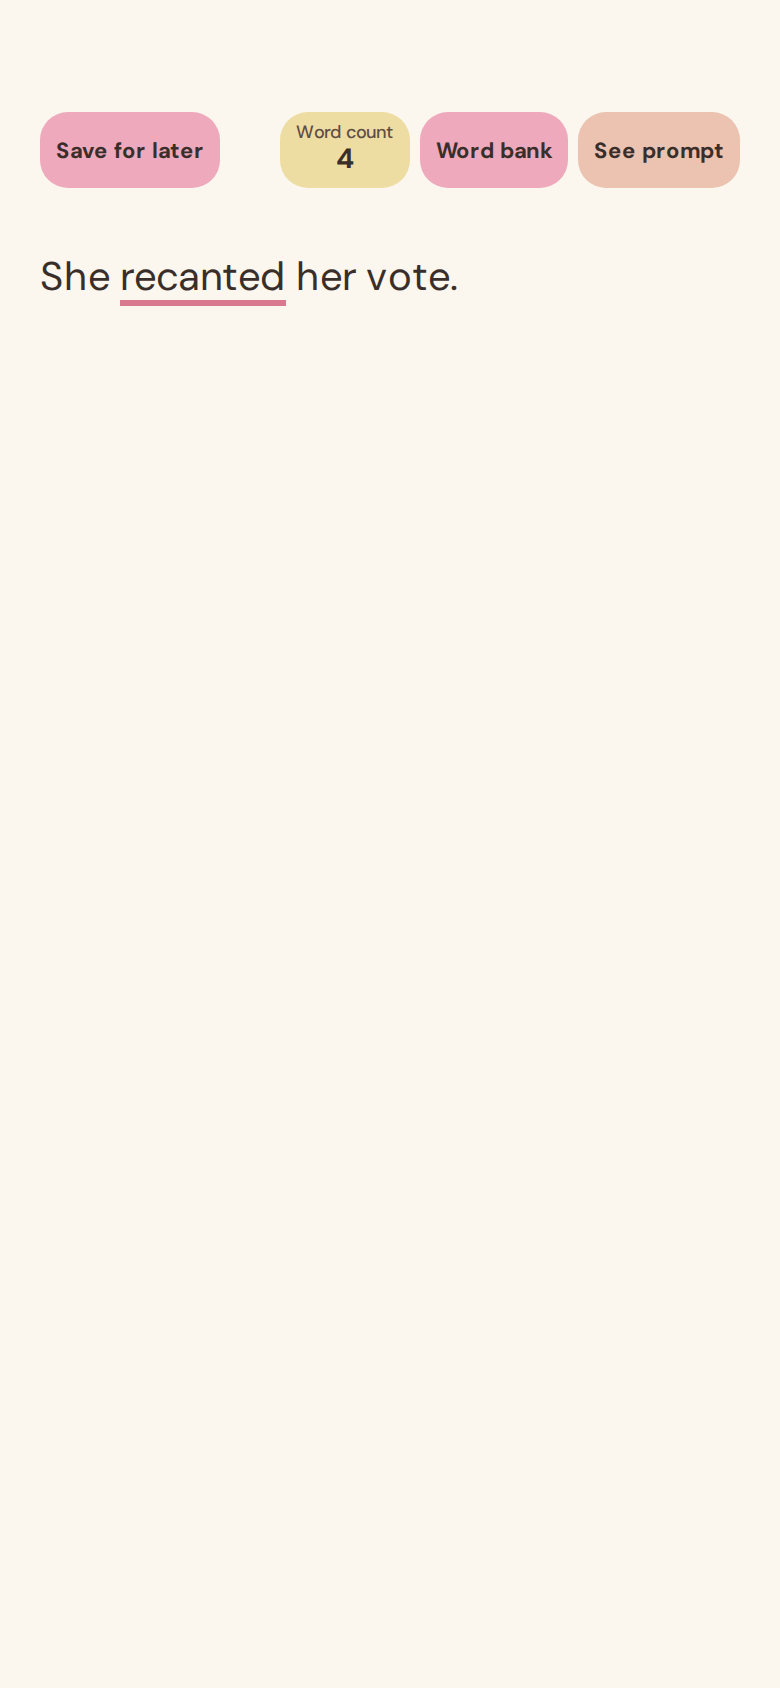
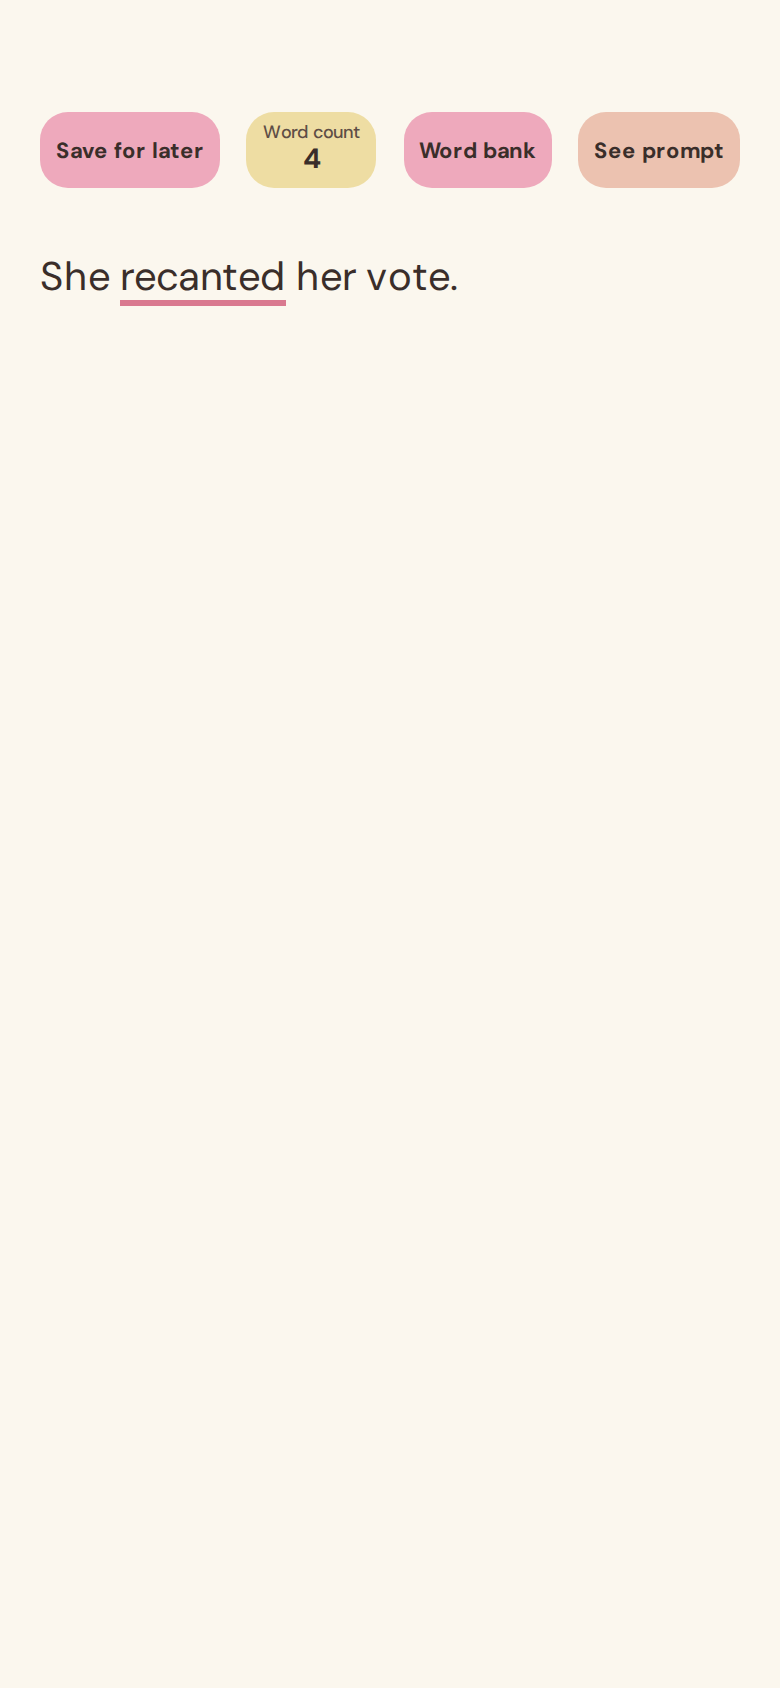
Space the Write screen buttons evenly

Changed region(s): [[0.3077, 0.0616, 0.7385, 0.1232]]

diff --git a/screens/write.html b/screens/write.html
@@ -16,7 +16,7 @@ a{color:#3A2E2A}a:hover{color:#000}
 
 <div style="display: flex; justify-content: space-between; align-items: center">
 <a href="home.html" style="height: 38px; padding: 0 8px; display: flex; align-items: center; border-radius: 14px; background: #eea9bc; font-size: 11px; font-weight: 700; text-decoration: none">Save for later</a>
-<div style="display: flex; gap: 5px; align-items: center">
+<div style="display: contents">
 <div style="height: 38px; box-sizing: border-box; padding: 0 8px; border-radius: 14px; background: #eedda3; display: flex; flex-direction: column; align-items: center; justify-content: center; text-align: center; line-height: 1.1; white-space: nowrap">
 <span style="font-size: 9px; font-weight: 500; color: #5E4E46">Word count</span>
 <span style="font-size: 14px; font-weight: 700">4</span>

diff --git a/screens/write-word-bank-open.html b/screens/write-word-bank-open.html
@@ -16,7 +16,7 @@ a{color:#3A2E2A}a:hover{color:#000}
 
 <div style="display: flex; justify-content: space-between; align-items: center">
 <span style="height: 38px; padding: 0 8px; display: flex; align-items: center; border-radius: 14px; background: #eea9bc; font-size: 11px; font-weight: 700">Save for later</span>
-<div style="display: flex; gap: 5px; align-items: center">
+<div style="display: contents">
 <div style="height: 38px; box-sizing: border-box; padding: 0 8px; border-radius: 14px; background: #eedda3; display: flex; flex-direction: column; align-items: center; justify-content: center; text-align: center; line-height: 1.1; white-space: nowrap">
 <span style="font-size: 9px; font-weight: 500; color: #5E4E46">Word count</span>
 <span style="font-size: 14px; font-weight: 700">4</span>
